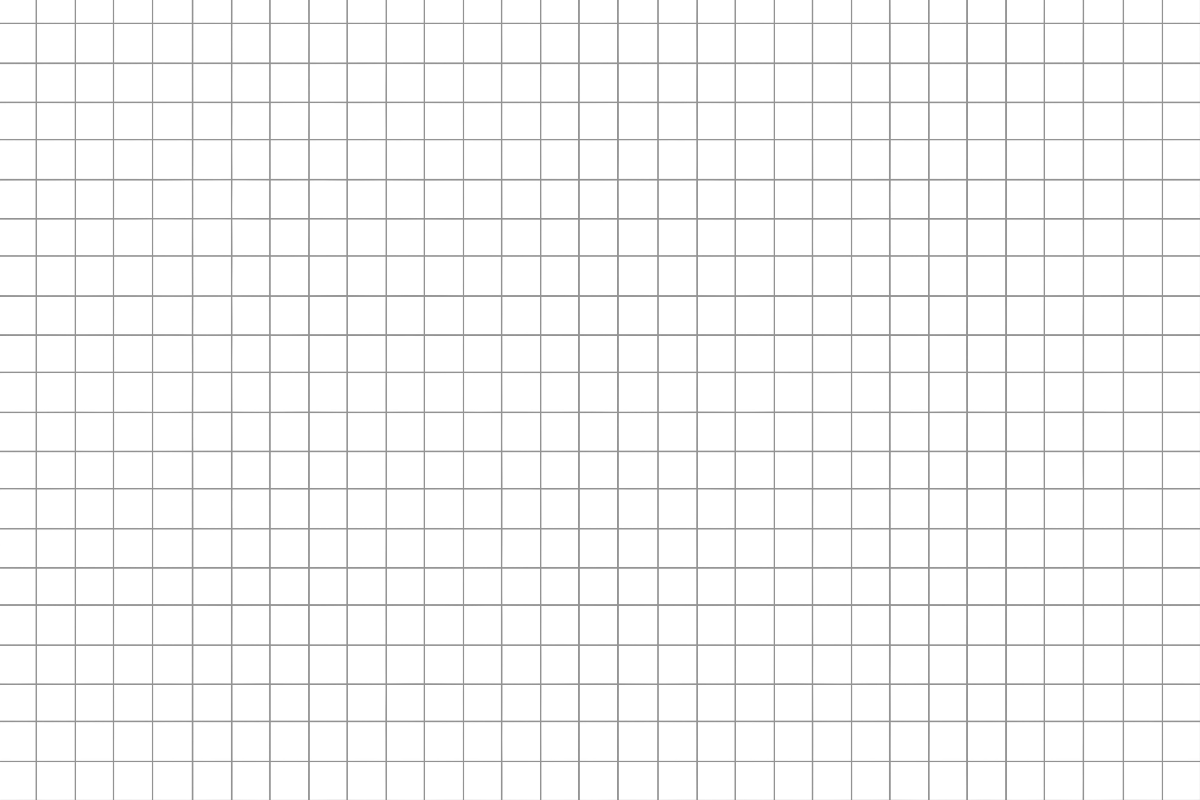
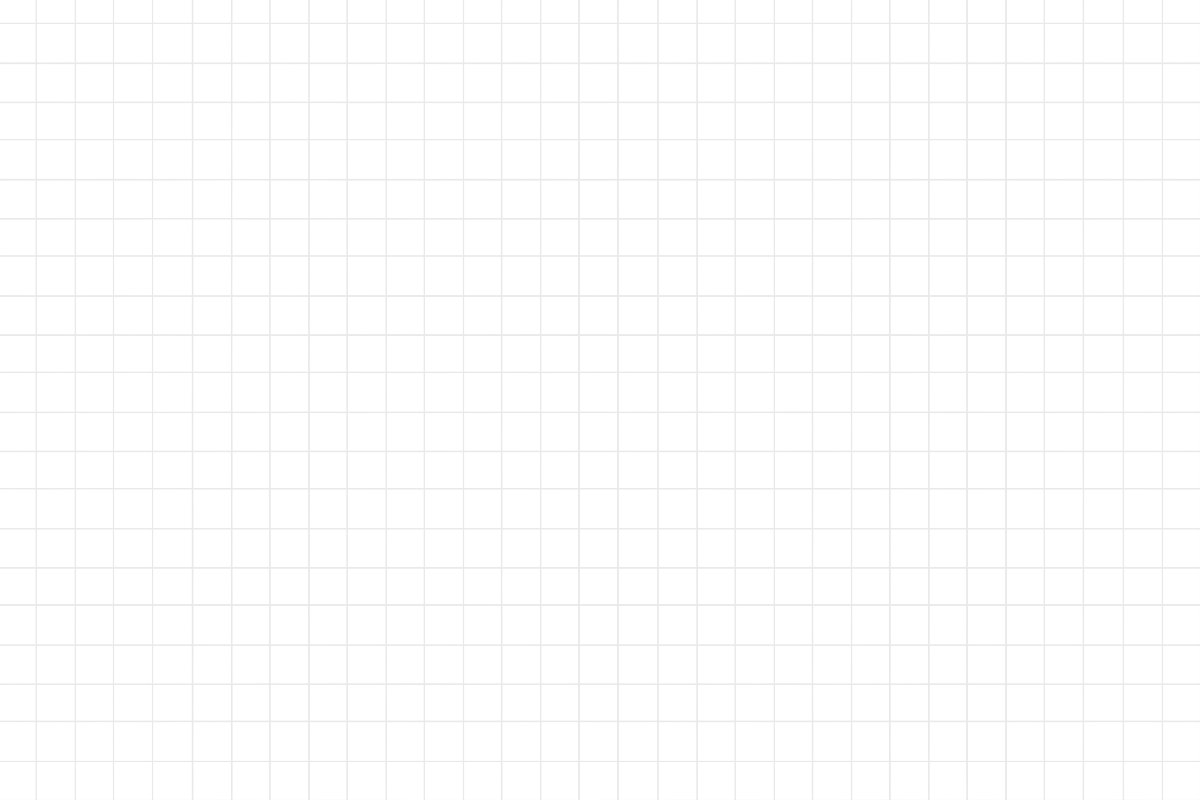
Fixed Lines & Removed Unused Files
Fixed issue where the background label covered the connection lines. Instead the  background of the level is changed via using a pixmap from the grids image and setting it directly.

Also removed non needed files from the project.

diff --git a/mainmenu.cpp b/mainmenu.cpp
@@ -1,10 +1,10 @@
 #include "mainmenu.h"
-#include "ui_mainmenu.h"
 #include <QGraphicsRectItem>
-void MyContactListener::BeginContact(b2Contact* contact) {
-    qDebug() << "Collision detected!";
-    b2Body* bodyA = contact->GetFixtureA()->GetBody();
-    b2Body* bodyB = contact->GetFixtureB()->GetBody();
+#include "ui_mainmenu.h"
+void MyContactListener::BeginContact(b2Contact *contact)
+{
+    b2Body *bodyA = contact->GetFixtureA()->GetBody();
+    b2Body *bodyB = contact->GetFixtureB()->GetBody();
 
     // Check if both bodies are dynamic
     if (bodyA->GetType() == b2_dynamicBody && bodyB->GetType() == b2_dynamicBody) {
@@ -22,16 +22,20 @@ void MyContactListener::BeginContact(b2Contact* contact) {
     // - Access the bodies involved in the collision: contact->GetFixtureA()->GetBody(), contact->GetFixtureB()->GetBody()
 }
 
-void MyContactListener::EndContact(b2Contact* contact) {
+void MyContactListener::EndContact(b2Contact *contact)
+{
     // You can perform actions when a collision ends
 }
-MainMenu::MainMenu(QWidget *parent) :
-    QMainWindow(parent),
-    ui(new Ui::MainMenu)
+
+MainMenu::MainMenu(QWidget *parent)
+    : QMainWindow(parent)
+    , ui(new Ui::MainMenu)
 {
     ui->setupUi(this);
     ui->mmLogicGateLvlBtns->hide();
     ui->mmCircuitExampleBtn->hide();
+
+    // Initializes Levels
     andGateLvl = new LevelWindow(this, "and_d");
     nAndGateLvl = new LevelWindow(this, "nand_d");
     orGateLvl = new LevelWindow(this, "or_d");
@@ -65,48 +69,56 @@ MainMenu::MainMenu(QWidget *parent) :
     // Physics Objects Initializations
     b2Vec2 gravity(0.0f, -4.0f);
     world = new b2World(gravity);
-    MyContactListener* contactListener = new MyContactListener;
+
+    MyContactListener *contactListener = new MyContactListener;
     world->SetContactListener(contactListener);
+
     ui->graphicsView->setScene(new QGraphicsScene());
+
     updateTimer = new QTimer(this);
     connect(updateTimer, SIGNAL(timeout()), this, SLOT(updatePhysics()));
+
     updateTimer->start(16); // About 60 FPS
+
     spawnTimer = new QTimer(this);
     connect(spawnTimer, SIGNAL(timeout()), this, SLOT(spawnPhysicsIcons()));
+
     spawnTimer->start(30); // About 60 FPS
 }
+
 MainMenu::~MainMenu()
 {
     delete ui;
 }
-void MainMenu::paintEvent(QPaintEvent *event) {
+
+void MainMenu::paintEvent(QPaintEvent *event)
+{
     Q_UNUSED(event);
 }
 
 void MainMenu::updatePhysics()
 {
     world->Step(1.0f / 60.0f, 8, 3);
-    for(int i = 0; i < ui->graphicsView->scene()->items().size(); i++)
-    {
-        if(mapWorldToScene(getBoxPosition(i)).y() >= height() - 200)
-        {
+    for (int i = 0; i < ui->graphicsView->scene()->items().size(); i++) {
+        if (mapWorldToScene(getBoxPosition(i)).y() >= height() - 200) {
             ui->graphicsView->scene()->removeItem(ui->graphicsView->scene()->items()[i]);
-        }
-        else
-        {
+        } else {
             ui->graphicsView->scene()->items()[i]->setPos(mapWorldToScene(getBoxPosition(i)));
         }
     }
 }
-void MainMenu::spawnPhysicsIcons() {
+
+void MainMenu::spawnPhysicsIcons()
+{
     std::uniform_real_distribution<float> distribution(-30.0, 100);
     std::random_device rd;
     std::mt19937 gen(rd());
+
     // Generate a random float for the X coordinate to spawn the icons
     float randomX = distribution(gen);
     createPhysicsIcon(randomX, 80.0f, 2.0f, 2.0f, ui->graphicsView->scene());
-
 }
+
 void MainMenu::on_logicGateLvlsBtn_clicked()
 {
     if (ui->mmLogicGateLvlBtns->isHidden()) {
@@ -228,7 +240,9 @@ void MainMenu::on_xOrGateLvlBtn_clicked()
     xOrGateLvl->show();
     this->close();
 }
-void MainMenu::createPhysicsIcon(float x, float y, float width, float height, QGraphicsScene *scene) {
+
+void MainMenu::createPhysicsIcon(float x, float y, float width, float height, QGraphicsScene *scene)
+{
     b2BodyDef bodyDef;
     bodyDef.type = b2_dynamicBody;
     bodyDef.position.Set(x, y);
@@ -240,16 +254,24 @@ void MainMenu::createPhysicsIcon(float x, float y, float width, float height, QG
     fixtureDef.shape = &dynamicBox;
     fixtureDef.density = 1.0f;
     fixtureDef.friction = 0.3f;
-    b2Body* body = world->CreateBody(&bodyDef);
+
+    b2Body *body = world->CreateBody(&bodyDef);
     body->CreateFixture(&fixtureDef);
+
     std::random_device rd;
     std::mt19937 gen(rd());
+
     // Create a uniform integer distribution between min and max (min = 0, max = size of the list - 1)
-    std::uniform_int_distribution<int> distribution(0, listOfIcons.size()-1);
+    std::uniform_int_distribution<int> distribution(0, listOfIcons.size() - 1);
+
     // Generate a random integer to pick an icon at random from the preset list of icons
     int randomInt = distribution(gen);
+
     QPixmap pixmap(listOfIcons[randomInt]);
-    QGraphicsPixmapItem* pixmapItem = new QGraphicsPixmapItem(pixmap); // Adding a pixmap with an icon to attach it to a physics body
+
+    // Adding a pixmap with an icon to attach it to a physics body
+    QGraphicsPixmapItem *pixmapItem = new QGraphicsPixmapItem(pixmap);
+
     pixmapItem->setPos(mapWorldToScene(body->GetPosition()));
     pixmapItem->setTransformOriginPoint(pixmapItem->boundingRect().center());
     pixmapItem->setRotation(body->GetAngle() * 180.0 / b2_pi);
@@ -258,14 +280,18 @@ void MainMenu::createPhysicsIcon(float x, float y, float width, float height, QG
     scene->addItem(pixmapItem); // Adding our item to the scene
 }
 
-b2Vec2 MainMenu::getBoxPosition(int index) {
-    b2Body* body = world->GetBodyList();
+b2Vec2 MainMenu::getBoxPosition(int index)
+{
+    b2Body *body = world->GetBodyList();
     for (int i = 0; i < index; ++i) {
         body = body->GetNext();
     }
     return body->GetPosition();
 }
-QPointF MainMenu::mapWorldToScene(const b2Vec2 &worldPoint) const {
+
+QPointF MainMenu::mapWorldToScene(const b2Vec2 &worldPoint) const
+{
     // Map Box2D world coordinates to QGraphicsScene coordinates
-    return QPointF(worldPoint.x * 10, -worldPoint.y * 10); // Scale factor 10 for better visualization
+    return QPointF(worldPoint.x * 10,
+                   -worldPoint.y * 10); // Scale factor 10 for better visualization
 }

diff --git a/levelsandboxwindow.cpp b/levelsandboxwindow.cpp
@@ -32,6 +32,13 @@ LevelSandboxWindow::LevelSandboxWindow(QMainWindow *mainWindow, QWidget *parent)
     zoomWidget->updateZoom(circuitManager->currentZoom);
 
     ui->stopSimBtn->setEnabled(false);
+
+    // Sets background image for the window.
+    QPixmap bkgnd(":/menuIcons/menuIcons/GridLight.png");
+    bkgnd = bkgnd.scaled(this->size(), Qt::IgnoreAspectRatio);
+    QPalette palette;
+    palette.setBrush(QPalette::Window, bkgnd);
+    this->setPalette(palette);
 }
 
 LevelSandboxWindow::~LevelSandboxWindow()

diff --git a/levelwindow.cpp b/levelwindow.cpp
@@ -40,6 +40,13 @@ LevelWindow::LevelWindow(QMainWindow *mainWindow,
     zoomWidget->updateZoom(circuitManager->currentZoom);
 
     ui->stopSimBtn->setEnabled(false);
+
+    // Sets background image for the window.
+    QPixmap bkgnd(":/menuIcons/menuIcons/GridLight.png");
+    bkgnd = bkgnd.scaled(this->size(), Qt::IgnoreAspectRatio);
+    QPalette palette;
+    palette.setBrush(QPalette::Window, bkgnd);
+    this->setPalette(palette);
 }
 
 LevelWindow::~LevelWindow()
